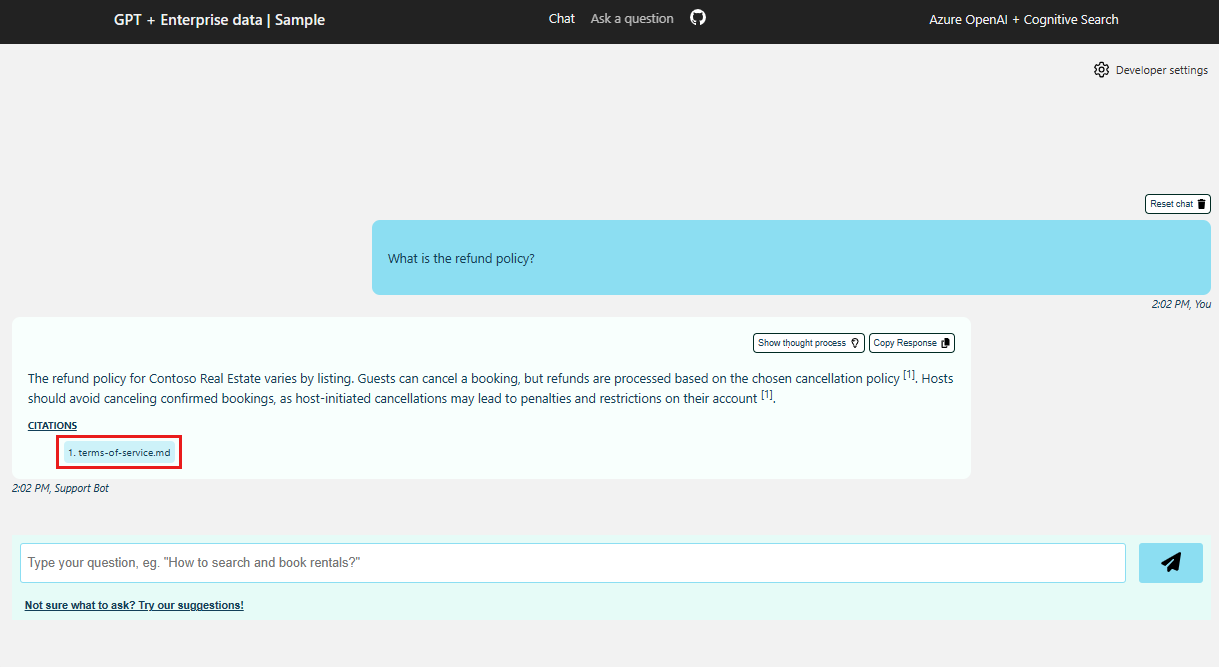
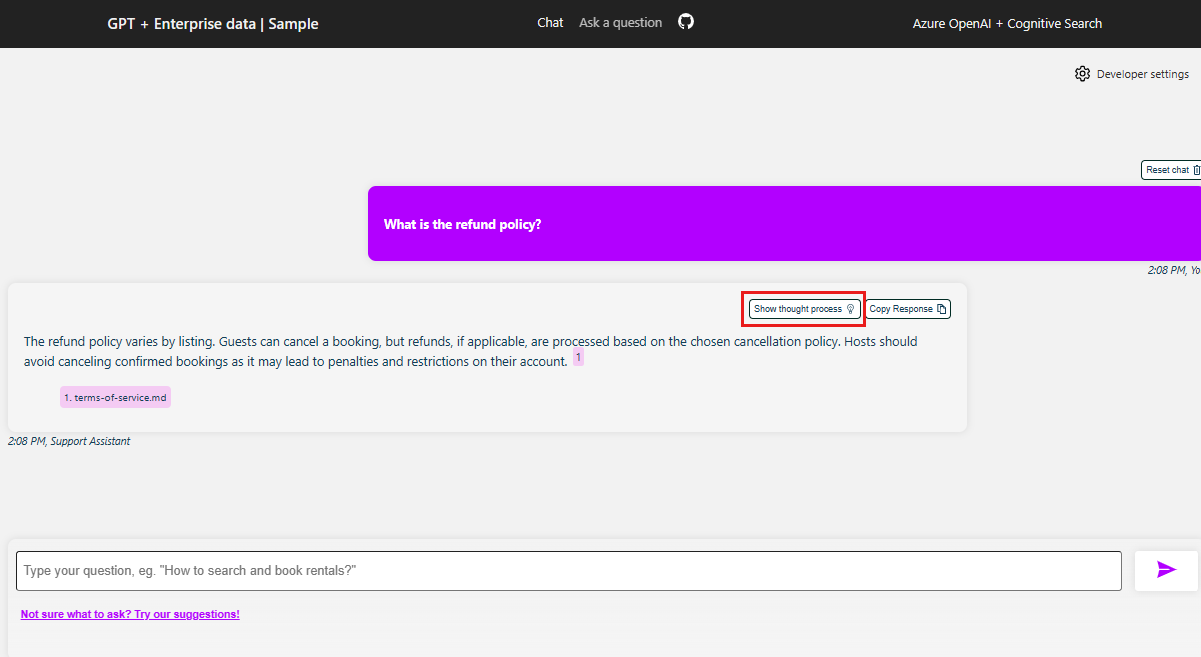
screenshots (js) and text

Changed region(s): [[0.0, 0.2435, 1.0, 0.761], [0.0, 0.7915, 1.0, 0.9437], [0.0, 0.0, 1.0, 0.1218]]

diff --git a/articles/javascript/get-started-app-chat-template.md b/articles/javascript/get-started-app-chat-template.md
@@ -160,7 +160,7 @@ The sample repository contains all the code and configuration files you need to 
     ```bash
     azd up
     ```
-1. When you're prompted to enter an environment name, keep it short and lowercase. For example, `myenv`. Its used as part of the resource group name. 
+1. When you're prompted to enter an environment name, keep it short and lowercase. For example, `myenv`. It's used as part of the resource group name. 
 1. When prompted, select a subscription to create the resources in. 
 1. When you're prompted to select a location the first time, select a location near you. This location is used for most the resources including hosting.
 1. If you're prompted for a location for the OpenAI model, select a location that is near you. If the same location is available as your first location, select that.
@@ -168,29 +168,26 @@ The sample repository contains all the code and configuration files you need to 
 1. After the application has been successfully deployed, you see a URL displayed in the terminal. 
 1. Select that URL labeled `Deploying service web` to open the chat application in a browser.
 
-    :::image type="content" source="./media/get-started-app-chat-template/browser-chat-with-your-data.png" alt-text="Screenshot of chat app in browser showing several suggestions for chat input and the chat text box to enter a question.":::
+    :::image type="content" source="./media/get-started-app-chat-template/browser-chat-with-your-data.png" lightbox="./media/get-started-app-chat-template/browser-chat-with-your-data.png" alt-text="Screenshot of chat app in browser showing several suggestions for chat input and the chat text box to enter a question.":::
 
 ### Use chat app to get answers from markdown files
 
 The chat app is preloaded with rental information from a [markdown file catalog](https://github.com/Azure-Samples/azure-search-openai-javascript/tree/main/data). You can use the chat app to ask questions about the rental process. The following steps walk you through the process of using the chat app.
 
-1. In the browser, select or enter a question about the catalog in the text box at the bottom of the page such as one of the following: 
+1. In the browser, select or enter **What is the refund policy** in the text box at the bottom of the page.
 
-    * How to search and book rentals?
-    * What is the refund policy?
-    * How to contact a representative? 
+    :::image type="content" source="./media/get-started-app-chat-template/browser-chat-initial-answer.png" lightbox="./media/get-started-app-chat-template/browser-chat-initial-answer.png" alt-text="Screenshot of chat app's first answer.":::
 
-    :::image type="content" source="./media/get-started-app-chat-template/browser-chat-initial-answer.png" alt-text="Screenshot of chat app's first answer.":::
+1. From the answer, select **Show thought process**.
 
-1. From the answer, select one of the citations.
+    :::image type="content" source="./media/get-started-app-chat-template/browser-chat-initial-answer-citation-highlighted.png" lightbox="./media/get-started-app-chat-template/browser-chat-initial-answer-citation-highlighted.png" alt-text="Screenshot of chat app's first answer with Show thought process highlighted in a red box.":::
 
-    :::image type="content" source="./media/get-started-app-chat-template/browser-chat-initial-answer-citation-highlighted.png" alt-text="Screenshot of chat app's first answer with its citation highlighted in a red box.":::
-
-    The markdown file associated with the citation is displayed in a new window. This allows you to look through the full content. 
-
-1. When you are done looking at the markdown, return to the original browser. 
-1. Select **Show thought process**. A right-side pane opens with the **Thought process** tab exposed. This tab includes the information to answer your question and the source material. The **Support context** includes the information to answer your question and the source material.
-1. When you're done, select the **X** above the tabs.
+1. A panel displays three tabs:
+    
+    * **Thought process** - This tab includes the information to answer your question and the source material.
+    * **Supporting context** - This tab includes the information to answer your question and the source material.
+    * **Citations** - This tab includes the source material. 
+1. When you're done, select the _hide_ button denoted with an **X** above the tabs.
 
 ### Use chat app settings to change behavior of responses
 
@@ -204,7 +201,7 @@ The intelligence of the chat app is determined by the OpenAI model and the setti
 |Retrieve this many search results|This is the number of search results that are used to generate the answer. You can see these sources returned in the _Thought process_ and _Supporting content_ tabs of the citation. |
 |Exclude category|This is the category of documents that are excluded from the search results.|
 |Use semantic ranker for retrieval|This is a feature of [Azure Cognitive Search](/azure/search/semantic-search-overview#what-is-semantic-search) that uses machine learning to improve the relevance of search results.|
-|Use query-contextual summaries instead of whole documents|When both `Use semantic ranker` and `Use query-contextual summaries`` are checked, the LLM uses captions extracted from key passages, instead of all the passages, in the highest ranked documents.|
+|Use query-contextual summaries instead of whole documents|When both `Use semantic ranker` and `Use query-contextual summaries` are checked, the LLM uses captions extracted from key passages, instead of all the passages, in the highest ranked documents.|
 |Suggest follow-up questions|Have the chat app suggest follow-up questions based on the answer.|
 |Retrieval mode|**Vectors + Text** means that the search results are based on the text of the documents and the embeddings of the documents. **Vectors** means that the search results are based on the embeddings of the documents. **Text** means that the search results are based on the text of the documents.|
 |Stream chat completion responses|Stream response instead of waiting until the complete answer is available for a response.|
@@ -212,19 +209,13 @@ The intelligence of the chat app is determined by the OpenAI model and the setti
 The following steps walk you through the process of changing the settings.
 
 1. In the browser, select the **Developer Settings** tab.
-1. Check the **Suggest follow-up questions** checkbox and ask the same question again.
+1. Check the **Use query-contextual summaries instead of** checkbox and ask the same question again.
 
     ```
     What happens if the rental doesn't fit the description?
     ```
 
-    The chat returned suggested follow-up questions such as the following:
-
-    ```
-    1. Would you like to see the refund policy? 
-    2. Would you like to see contact information? 
-    3. Would you like to see the privacy policy? 
-    ```
+    The chat returned with a more concise answer such as the following.
 
 ## Clean up resources
 

diff --git a/articles/java/quickstarts/get-started-app-chat-template.md b/articles/java/quickstarts/get-started-app-chat-template.md
@@ -190,7 +190,7 @@ The intelligence of the chat app is determined by the OpenAI model and the setti
 |Retrieve this many search results|This is the number of search results that are used to generate the answer. You can see these sources returned in the _Thought process_ and _Supporting content_ tabs of the citation. |
 |Exclude category|This is the category of documents that are excluded from the search results.|
 |Use semantic ranker for retrieval|This is a feature of [Azure Cognitive Search](/azure/search/semantic-search-overview#what-is-semantic-search) that uses machine learning to improve the relevance of search results.|
-|Use query-contextual summaries instead of whole documents|When both `Use semantic ranker` and `Use query-contextual summaries`` are checked, the LLM uses captions extracted from key passages, instead of all the passages, in the highest ranked documents.|
+|Use query-contextual summaries instead of whole documents|When both `Use semantic ranker` and `Use query-contextual summaries` are checked, the LLM uses captions extracted from key passages, instead of all the passages, in the highest ranked documents.|
 |Suggest follow-up questions|Have the chat app suggest follow-up questions based on the answer.|
 |Retrieval mode|**Vectors + Text** means that the search results are based on the text of the documents and the embeddings of the documents. **Vectors** means that the search results are based on the embeddings of the documents. **Text** means that the search results are based on the text of the documents.|
 |Stream chat completion responses|Stream response instead of waiting until the complete answer is available for a response.|

diff --git a/articles/python/get-started-app-chat-template.md b/articles/python/get-started-app-chat-template.md
@@ -210,7 +210,7 @@ The intelligence of the chat is determined by the OpenAI model and the settings 
 |Retrieve this many search results|This is the number of search results that are used to generate the answer. You can see these sources returned in the _Thought process_ and _Supporting content_ tabs of the citation. |
 |Exclude category|This is the category of documents that are excluded from the search results.|
 |Use semantic ranker for retrieval|This is a feature of [Azure Cognitive Search](/azure/search/semantic-search-overview#what-is-semantic-search) that uses machine learning to improve the relevance of search results.|
-|Use query-contextual summaries instead of whole documents|When both `Use semantic ranker` and `Use query-contextual summaries`` are checked, the LLM uses captions extracted from key passages, instead of all the passages, in the highest ranked documents.|
+|Use query-contextual summaries instead of whole documents|When both `Use semantic ranker` and `Use query-contextual summaries` are checked, the LLM uses captions extracted from key passages, instead of all the passages, in the highest ranked documents.|
 |Suggest follow-up questions|Have the chat app suggest follow-up questions based on the answer.|
 |Retrieval mode|**Vectors + Text** means that the search results are based on the text of the documents and the embeddings of the documents. **Vectors** means that the search results are based on the embeddings of the documents. **Text** means that the search results are based on the text of the documents.|
 |Stream chat completion responses|Stream response instead of waiting until the complete answer is available for a response.|
